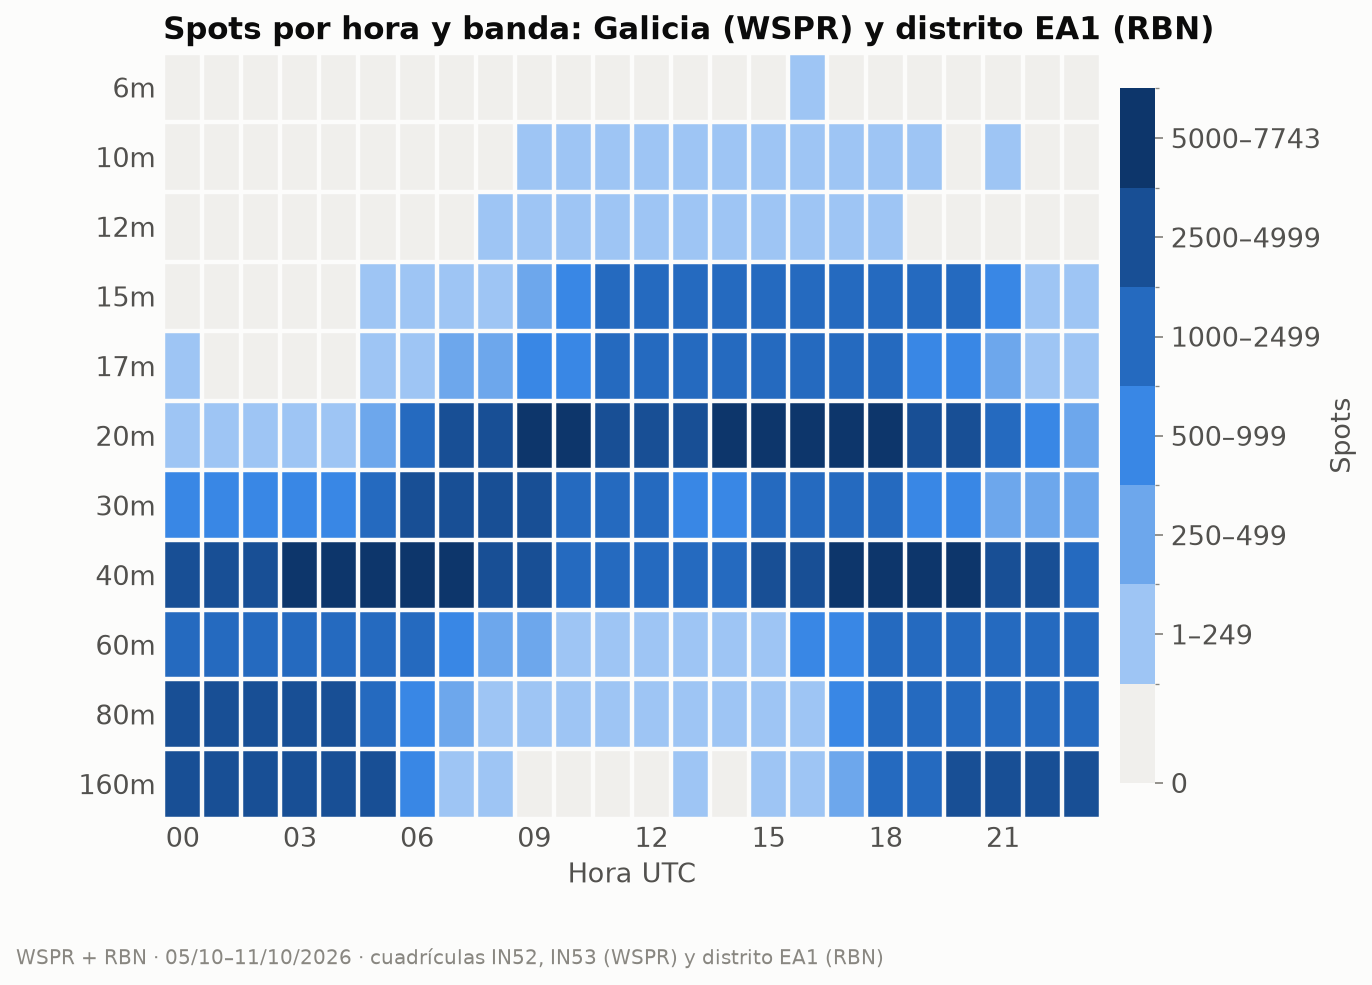
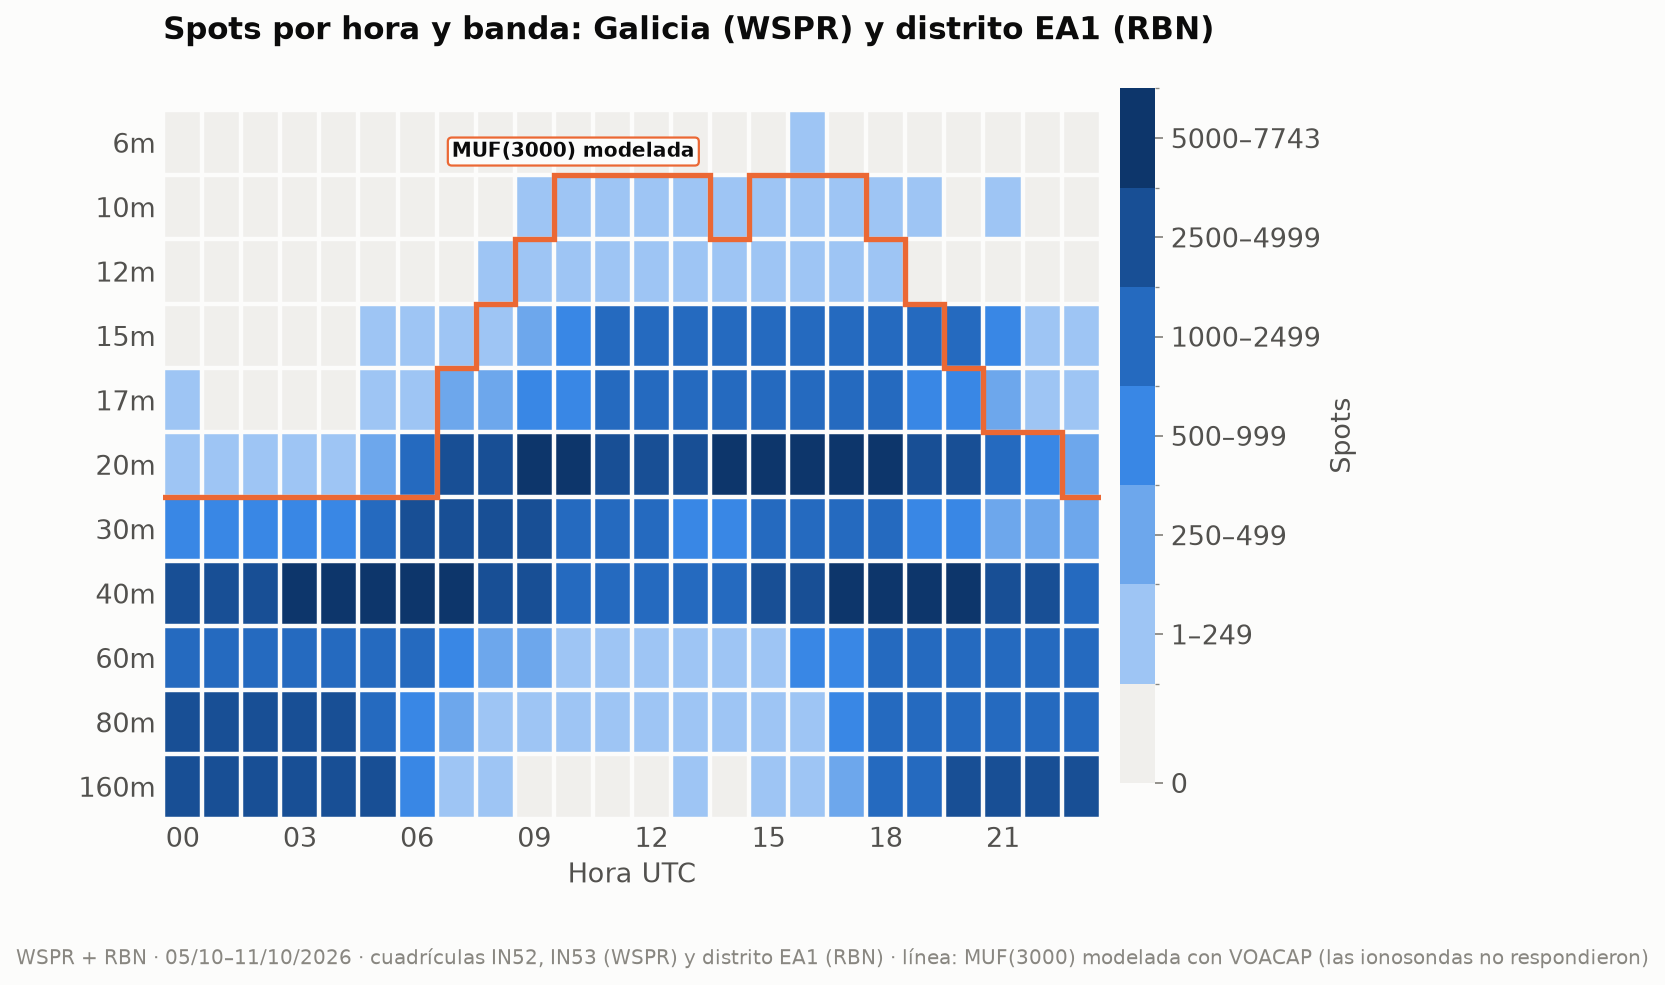
Borrador del informe de propagación 2026-W42

diff --git a/informes/2026-W42/informe.html b/informes/2026-W42/informe.html
@@ -19,7 +19,7 @@ de verdad</strong> (spots reales desde Galicia). Todas las horas en UTC salvo qu
   tendencia frente a la semana anterior: <strong>al alza (+26 %)</strong> (media previa 93).</li>
 <li><strong>SSN efectivo aproximado:</strong> ≈ <strong>60</strong> (SSN ≈ 1,14·SFI − 73,2) · número de manchas observado (media): 81.</li>
 <li><strong>Campo geomagnético:</strong> 🔴 <strong>tormenta geomagnética (G3)</strong> · Kp máximo <strong>7,00</strong> · Ap medio <strong>17</strong> (máx. 46) · 4 día(s) con Kp ≥ 4.</li>
-<li><strong>Fulguraciones:</strong> 0 de clase X y 7 de clase M — la mayor, <strong>M6.7</strong> (jue 8/10 15:48 UTC). Una fulguración fuerte en el lado diurno puede provocar un <em>apagón de radio</em> (absorción en la capa D) durante minutos u horas.</li>
+<li><strong>Fulguraciones:</strong> 0 de clase X y 6 de clase M — la mayor, <strong>M6.7</strong> (jue 8/10 15:48 UTC). Una fulguración fuerte en el lado diurno puede provocar un <em>apagón de radio</em> (absorción en la capa D) durante minutos u horas.</li>
 </ul>
 <table>
 <thead>
@@ -163,6 +163,9 @@ Las bandas con más actividad fueron <strong>40m</strong> (99 446), <strong>20
 <p><img alt="Mapa de calor de spots por hora UTC y banda" src="heatmap_hora_banda.png" /></p>
 <p><em>Cómo leerlo: cada casilla es una hora UTC en una banda; cuanto más oscura, más spots. Fíjate en
 cómo las bandas altas (10–15 m) se «encienden» con el Sol y las bajas (40–80 m) de noche.</em></p>
+<p><em>La línea naranja es la <strong>MUF(3000) modelada con VOACAP</strong> para la semana pasada (con el SFI real
+de esos días): esta semana las ionosondas no respondieron, así que es lo que dice el modelo, no una
+medida. Por debajo de ella, la teoría dice que la banda abre para un salto de 3 000 km.</em></p>
 <h3>DX de la semana por banda</h3>
 <table>
 <thead>
@@ -380,7 +383,7 @@ los kilómetros. Solo WSPR, porque el RBN no da locator: cada punto es un locato
 (1 380 en total) y la cifra entre paréntesis es cuántos hay de cada continente. Por eso no
 coincide con los spots de la tabla, que suman todos los spots de WSPR y RBN.</em></p>
 <h3>La ionosfera medida</h3>
-<p><em>Sin datos esta semana.</em></p>
+<p><em>Sin datos esta semana: el servidor de GIRO (lgdc.uml.edu) no respondió a ninguna de las ionosondas, así que esta semana no hay medidas de foF2, MUF ni esporádica E.</em></p>
 <h2>3. Previsión para la semana (lun 12/10 – dom 18/10)</h2>
 <h3>DX: fiabilidad prevista (VOACAP)</h3>
 <p><strong>En FT8</strong> (el modo más usado, y el más parecido a los spots WSPR/RBN de la sección 2): bandas con
@@ -545,7 +548,7 @@ cuando ninguna llega al 50 % (apertura posible pero poco fiable):</p>
 En SSB hacen falta ~30 dB más que en FT8. VOACAP describe el promedio mensual: un día concreto puede
 ir mucho mejor o peor.</em></p>
 <h3>NVIS y contactos regionales (80 y 40 m)</h3>
-<p><em>Sin datos esta semana.</em></p>
+<p><em>Sin datos esta semana: el servidor de GIRO (lgdc.uml.edu) no respondió a ninguna de las ionosondas, así que esta semana no hay medidas de foF2, MUF ni esporádica E.</em></p>
 <h3>Línea gris</h3>
 <p>El jue 15/10, en Vigo amanece a las <strong>06:47 UTC</strong> y anochece a las <strong>17:53 UTC</strong>.
 Durante el crepúsculo la absorción de la capa D desaparece antes de que se deshaga la capa F: es
@@ -921,5 +924,5 @@ para la semana). <strong>El informe no se publica sin este párrafo.</strong></p
 <li>Cálculos propios: SSN efectivo, distancias de círculo máximo, MUF por ley de la secante y
   orto/ocaso (algoritmo de NOAA).</li>
 </ul>
-<p><sub>Borrador generado automáticamente el 2026-10-12 15:42 UTC por el script del radioclub
+<p><sub>Borrador generado automáticamente el 2026-10-12 21:17 UTC por el script del radioclub
 EA1RKV. Las secciones sin datos indican que la fuente no respondió esta semana.</sub></p></body></html>

diff --git a/informes/2026-W42/informe.md b/informes/2026-W42/informe.md
@@ -13,7 +13,7 @@ previsión: lun 12/10 – dom 18/10
   tendencia frente a la semana anterior: **al alza (+26 %)** (media previa 93).
 - **SSN efectivo aproximado:** ≈ **60** (SSN ≈ 1,14·SFI − 73,2) · número de manchas observado (media): 81.
 - **Campo geomagnético:** 🔴 **tormenta geomagnética (G3)** · Kp máximo **7,00** · Ap medio **17** (máx. 46) · 4 día(s) con Kp ≥ 4.
-- **Fulguraciones:** 0 de clase X y 7 de clase M — la mayor, **M6.7** (jue 8/10 15:48 UTC). Una fulguración fuerte en el lado diurno puede provocar un *apagón de radio* (absorción en la capa D) durante minutos u horas.
+- **Fulguraciones:** 0 de clase X y 6 de clase M — la mayor, **M6.7** (jue 8/10 15:48 UTC). Una fulguración fuerte en el lado diurno puede provocar un *apagón de radio* (absorción en la capa D) durante minutos u horas.
 
 | Día | SFI | Manchas | Ap | Kp máx. | |
 |---|---:|---:|---:|---:|:-:|
@@ -84,6 +84,11 @@ Las bandas con más actividad fueron **40m** (99 446), **20m** (76 505), **1
 
 _Cómo leerlo: cada casilla es una hora UTC en una banda; cuanto más oscura, más spots. Fíjate en
 cómo las bandas altas (10–15 m) se «encienden» con el Sol y las bajas (40–80 m) de noche._
+
+_La línea naranja es la **MUF(3000) modelada con VOACAP** para la semana pasada (con el SFI real
+de esos días): esta semana las ionosondas no respondieron, así que es lo que dice el modelo, no una
+medida. Por debajo de ella, la teoría dice que la banda abre para un salto de 3 000 km._
+
 ### DX de la semana por banda
 
 | Banda | Distancia | Estación gallega (WSPR) | Corresponsal | Locator | Continente | Cuándo | SNR |
@@ -121,7 +126,7 @@ coincide con los spots de la tabla, que suman todos los spots de WSPR y RBN._
 
 ### La ionosfera medida
 
-_Sin datos esta semana._
+_Sin datos esta semana: el servidor de GIRO (lgdc.uml.edu) no respondió a ninguna de las ionosondas, así que esta semana no hay medidas de foF2, MUF ni esporádica E._
 
 ## 3. Previsión para la semana (lun 12/10 – dom 18/10)
 
@@ -160,7 +165,7 @@ ir mucho mejor o peor._
 
 ### NVIS y contactos regionales (80 y 40 m)
 
-_Sin datos esta semana._
+_Sin datos esta semana: el servidor de GIRO (lgdc.uml.edu) no respondió a ninguna de las ionosondas, así que esta semana no hay medidas de foF2, MUF ni esporádica E._
 
 ### Línea gris
 
@@ -255,5 +260,5 @@ Los mejores pases (elevación máxima ≥ 30°) de cada satélite:
 - Cálculos propios: SSN efectivo, distancias de círculo máximo, MUF por ley de la secante y
   orto/ocaso (algoritmo de NOAA).
 
-<sub>Borrador generado automáticamente el 2026-10-12 15:42 UTC por el script del radioclub
+<sub>Borrador generado automáticamente el 2026-10-12 21:17 UTC por el script del radioclub
 EA1RKV. Las secciones sin datos indican que la fuente no respondió esta semana.</sub>
